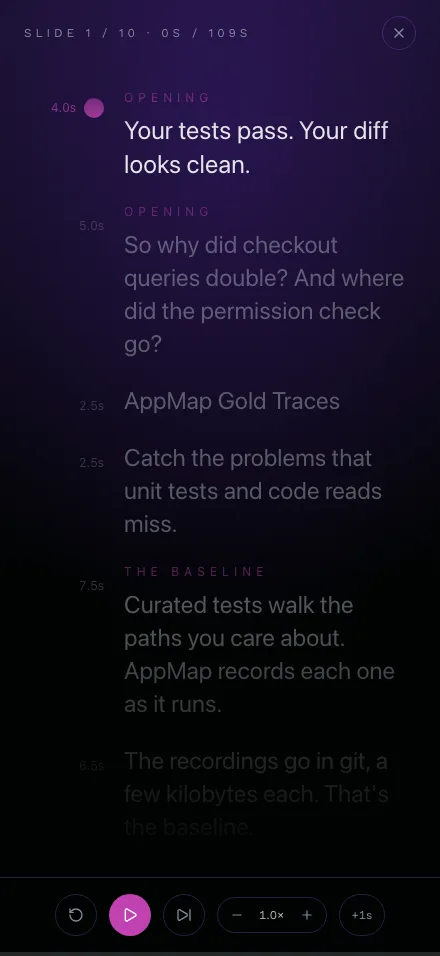
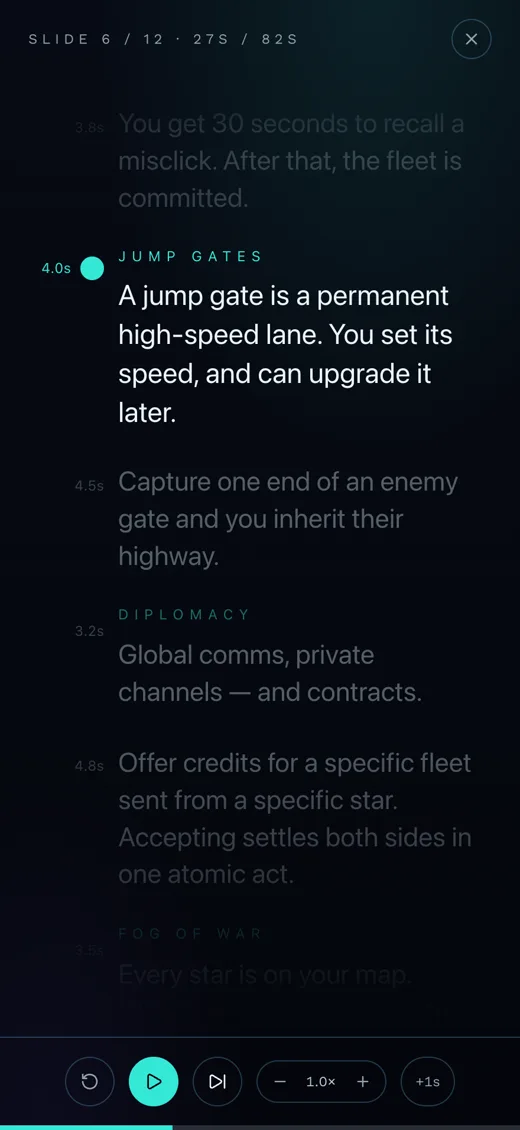
Website: Claude Code-style chats, and a NOVA teleprompter picture
The goal and the note now look like a Claude Code chat: your message in a
bubble, the edit step, and Claude's reply with its mark. The teleprompter
section shows the NOVA script on the jump gate line instead of the
AppMap Gold Traces script; npm run capture:prompter takes it from a
running studio.

diff --git a/site/public/index.html b/site/public/index.html
@@ -84,10 +84,15 @@
             </p>
           </div>
           <div class="feature-art direct">
-            <p class="note">
-              <span>Your goal</span>Make a TikTok for NOVA that shows off jump gates: players build
-              their own highways between the stars.
-            </p>
+            <div class="chat" role="group" aria-label="A chat in Claude Code">
+              <div class="chat-bar" aria-hidden="true"><i></i><i></i><i></i>Claude Code</div>
+              <p class="msg you">
+                Make a TikTok for NOVA that shows off jump gates: players build their own highways
+                between the stars.
+              </p>
+              <p class="tool">Edited showcase.yaml</p>
+              <p class="msg claude">Here's a first cut. It's playing in the studio.</p>
+            </div>
             <img
               class="shot frame"
               src="/media/nova-gate.jpg"
@@ -103,9 +108,9 @@
           <div class="feature-text">
             <h2>Revise by watching and chatting</h2>
             <p>
-              You direct by watching. To make an improvement, describe it in plain words, the way you
-              would give a note to an editor. Claude changes the video, and it plays again beside
-              the chat.
+              You direct by watching. To make an improvement, describe it in plain words, the way
+              you would give a note to an editor. Claude changes the video, and it plays again
+              beside the chat.
             </p>
             <p>
               Keep going until it's right. To fix a word yourself, edit it right in the studio.
@@ -113,10 +118,12 @@
             </p>
           </div>
           <div class="feature-art direct">
-            <p class="note"><span>Your note</span>Add that you can capture an enemy's gate.</p>
-            <p class="note reply">
-              <span>Claude</span>Done. The jump gate scene has a second line now.
-            </p>
+            <div class="chat" role="group" aria-label="A chat in Claude Code">
+              <div class="chat-bar" aria-hidden="true"><i></i><i></i><i></i>Claude Code</div>
+              <p class="msg you">Add that you can capture an enemy's gate.</p>
+              <p class="tool">Edited showcase.yaml</p>
+              <p class="msg claude">Done. The jump gate scene has a second line now.</p>
+            </div>
             <img
               class="shot frame"
               src="/media/nova-capture.jpg"
@@ -144,9 +151,9 @@
             <img
               class="shot narrow"
               src="/media/prompter.webp"
-              alt="The script scrolling on a phone, like a teleprompter"
-              width="440"
-              height="956"
+              alt="The NOVA script on a phone teleprompter, on the jump gate line"
+              width="520"
+              height="1130"
               loading="lazy"
             />
           </div>

diff --git a/site/public/styles.css b/site/public/styles.css
@@ -440,48 +440,85 @@ footer span {
   }
 }
 
-/* "Tell the story": a director's note above a frame of the result */
+/* The examples: a Claude Code chat above a frame of the result */
 .direct {
   flex-direction: column;
   align-items: center;
   gap: 20px;
 }
 
-.note {
-  max-width: 340px;
-  margin: 0;
-  padding: 14px 18px;
-  border-radius: 18px 18px 18px 4px;
-  background: var(--bg-raised);
+.chat {
+  width: 100%;
+  max-width: 400px;
+  padding: 0 16px 16px;
   border: 1px solid var(--line);
-  font-size: 16px;
+  border-radius: 14px;
+  background: #1f1e1d;
+  box-shadow: 0 24px 48px rgba(0, 0, 0, 0.35);
+  font-size: 15px;
+  line-height: 1.5;
+  color: #e8e6e3;
 }
 
-.note span {
-  display: block;
-  margin-bottom: 4px;
+.chat-bar {
+  display: flex;
+  align-items: center;
+  gap: 6px;
+  margin: 0 -16px 16px;
+  padding: 10px 14px;
+  border-bottom: 1px solid rgba(255, 255, 255, 0.08);
   font-size: 12px;
-  font-weight: 600;
-  letter-spacing: 0.12em;
-  text-transform: uppercase;
-  color: var(--green);
+  color: rgba(232, 230, 227, 0.55);
+}
+
+.chat-bar i {
+  width: 10px;
+  height: 10px;
+  border-radius: 50%;
+  background: rgba(255, 255, 255, 0.16);
+}
+
+.chat-bar i:last-of-type {
+  margin-right: 8px;
+}
+
+.chat p {
+  margin: 0;
+}
+
+.msg.you {
+  margin-left: auto;
+  width: fit-content;
+  max-width: 85%;
+  padding: 10px 14px;
+  border-radius: 14px;
+  background: #33312e;
+}
+
+.tool {
+  margin-top: 14px !important;
+  font-size: 13px;
+  color: rgba(232, 230, 227, 0.5);
+}
+
+.tool::after {
+  content: " ›";
+}
+
+.msg.claude {
+  display: flex;
+  gap: 10px;
+  margin-top: 8px !important;
+}
+
+/* Claude's mark, in Claude's coral */
+.msg.claude::before {
+  content: "✻";
+  flex: none;
+  color: #d97757;
 }
 
 .shot.frame {
   width: 240px;
   border-radius: 28px;
-}
-
-.direct .note + .note {
-  margin-top: -8px;
-}
-
-.note.reply {
-  align-self: flex-end;
-  border-radius: 18px 18px 4px 18px;
-  background: rgba(74, 144, 240, 0.14);
-}
-
-.note.reply span {
-  color: var(--blue);
 }

diff --git a/CLAUDE.md b/CLAUDE.md
@@ -87,10 +87,15 @@ npm run dev:prompter               # (web/prompter) — dev server on :8097;
 #   npm run media          make site/public/media from the repo: the hero
 #                          video from the showcase-studio export, the two
 #                          NOVA example frames from the nova export, and
-#                          the teleprompter screenshot. Export first, at
+#                          the teleprompter picture. Export first, at
 #                          the root: npm run dev -- --export
 #                          video:showcase-studio, and --export
 #                          video-draft:nova. Commit the results.
+#   npm run capture:prompter
+#                          capture the NOVA teleprompter picture into
+#                          site/media-src/ from a studio on :8123 (start
+#                          one at the root: PORT=8123 npm run dev --
+#                          --no-terminal --no-auto-commit --alongside)
 # Deploy (Cloudflare Pages project "showcase-studio", from site/wrangler.toml):
 #   npx wrangler login     once, in a browser
 #   npx wrangler pages project create showcase-studio --production-branch main
